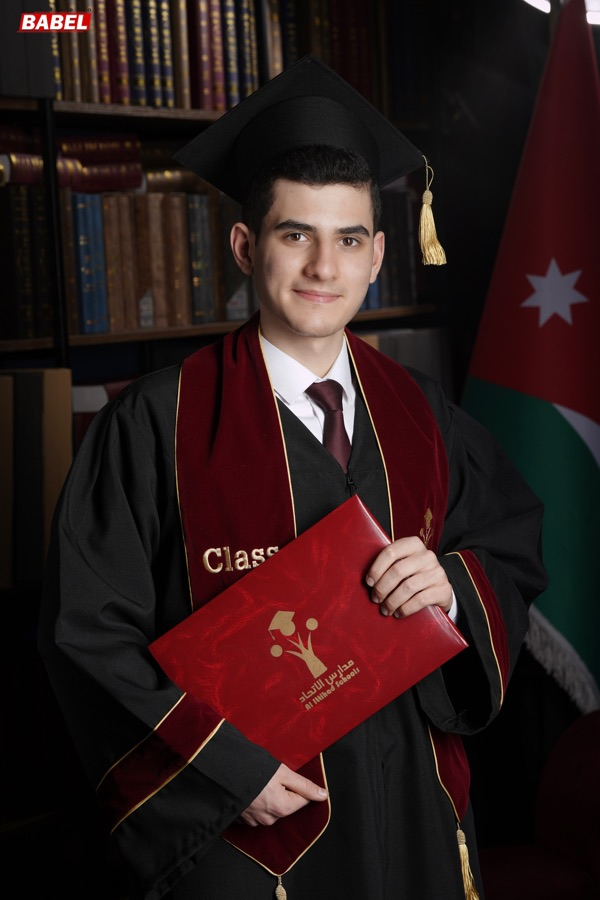
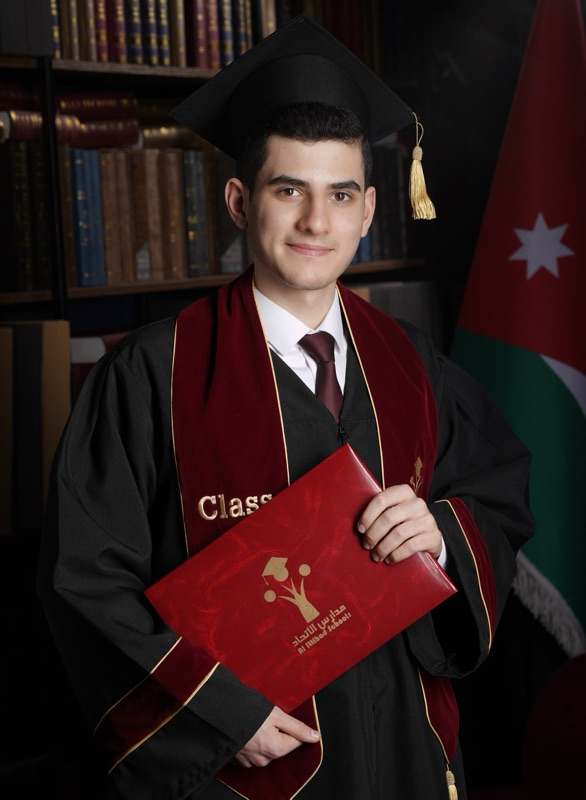
Redesign portrait as matted photo card, merge footer contact into studio block

diff --git a/style.css b/style.css
@@ -372,36 +372,51 @@ ol,ul{ margin:0; padding:0; list-style:none }
 }
 .verse + .verse{ margin-top:calc(var(--s-2) * -1) }
 
-/* ── the graduate's portrait: an arched, gold-framed window ── */
+/* ── the graduate's portrait: a matted photo card, sealed with a cap ── */
 .portrait{
   position:relative;
-  width:min(64vw, 250px);
-  margin-top:var(--s-2);
-  padding:7px;
-  background:linear-gradient(160deg,#F0E3BE,#C9A227 40%,#E0C878 68%,#A9861B);
-  border-radius:999px 999px 22px 22px;
-  box-shadow:0 24px 48px -22px rgba(90,72,20,.5);
-  animation:portraitFloat 6s var(--ease) infinite;
+  width:min(76vw, 290px);
+  margin-top:var(--s-3);
+  margin-bottom:var(--s-4);   /* room for the badge that overlaps below */
+  padding:10px;
+  background:linear-gradient(180deg,#FFFDF9,var(--ivory-2));
+  border:1px solid rgba(201,162,39,.4);
+  border-radius:var(--radius-l);
+  box-shadow:0 30px 55px -28px rgba(90,72,20,.5);
 }
 .portrait-frame{
+  position:relative;
   display:block; overflow:hidden;
-  aspect-ratio:3/4;
-  border:4px solid #FFFDF9;
-  border-radius:999px 999px 16px 16px;
+  aspect-ratio:4/5;
+  border-radius:calc(var(--radius-l) - 7px);
   background:var(--ivory-2);
 }
+/* hairline mat line drawn over the photo's edge */
+.portrait-frame::after{
+  content:""; position:absolute; inset:6px;
+  border:1px solid rgba(255,253,249,.55);
+  border-radius:calc(var(--radius-l) - 11px);
+  pointer-events:none;
+}
 .portrait img{
-  width:100%; height:100%; object-fit:cover; object-position:50% 18%;
+  width:100%; height:100%; object-fit:cover; object-position:50% 28%;
   display:block;
 }
 /* once revealed, the photo breathes with a slow, subtle zoom */
-.portrait.in img{ animation:kenburns 9s ease-in-out infinite alternate }
-.portrait-spark{ position:absolute; width:15px; opacity:.9 }
-.portrait-spark svg{ width:100%; height:auto; display:block }
-.ps-l{ top:16%; inset-inline-start:-24px }
-.ps-r{ bottom:10%; inset-inline-end:-22px; width:11px }
-@keyframes portraitFloat{ 0%,100%{ transform:translateY(0) } 50%{ transform:translateY(-7px) } }
-@keyframes kenburns{ from{ transform:scale(1) } to{ transform:scale(1.07) } }
+.portrait.in img{ animation:kenburns 10s ease-in-out infinite alternate }
+@keyframes kenburns{ from{ transform:scale(1) } to{ transform:scale(1.05) } }
+/* the gold cap seal, overlapping the mat's lower edge */
+.portrait-badge{
+  position:absolute; left:50%; bottom:-24px;
+  transform:translateX(-50%);
+  display:flex; align-items:center; justify-content:center;
+  width:52px; height:52px;
+  background:linear-gradient(140deg,var(--gold-lt),var(--gold) 55%,var(--gold-deep));
+  border:2px solid #FFFDF9;
+  border-radius:50%;
+  box-shadow:var(--shadow-gold);
+}
+.portrait-badge svg{ width:30px; height:auto; display:block }
 
 .name-block{
   display:flex; align-items:center; justify-content:center; gap:var(--s-4);
@@ -609,21 +624,21 @@ ol,ul{ margin:0; padding:0; list-style:none }
   font-size:var(--t-small); letter-spacing:.18em; color:var(--gold-deep);
   direction:ltr;
 }
-.foot-ask{ margin-top:var(--s-5); font-size:var(--t-small); color:var(--ink-2) }
-.foot-ask a{
+/* the studio's corner: one quiet block for the maker and their number */
+.foot-studio{
+  margin-top:var(--s-6);
+  padding-top:var(--s-5);
+  border-top:1px solid rgba(201,162,39,.25);
+  display:flex; flex-direction:column; gap:var(--s-2);
+  font-size:var(--t-small); color:var(--ink-2);
+}
+.foot-studio a{
   color:var(--gold-ink); text-decoration:none;
   border-bottom:1px solid rgba(201,162,39,.45); padding-bottom:.1em;
+  transition:border-color var(--dur-fast) var(--ease);
 }
-.foot-ask a:hover{ border-color:var(--gold) }
-.foot-credit{ margin-top:var(--s-4); font-size:var(--t-small) }
-.foot-credit a{
-  color:var(--ink-2); text-decoration:none;
-  border-bottom:1px solid rgba(201,162,39,.45);
-  padding-bottom:.15em;
-  transition:color var(--dur-fast) var(--ease), border-color var(--dur-fast) var(--ease);
-}
-.foot-credit a:hover{ color:var(--gold-ink); border-color:var(--gold) }
-.foot-credit b{ font-family:var(--font-latin); font-weight:600; color:var(--gold-deep) }
+.foot-studio a:hover{ border-color:var(--gold) }
+.foot-studio b{ font-family:var(--font-latin); font-weight:600; color:var(--gold-deep) }
 
 /* ═══ STICKY ═══════════════════════════════════════════════════ */
 
@@ -729,7 +744,7 @@ html[lang="en"] .name{ line-height:1.15 }
                 50%{ transform:translateX(-50%) translateY(-5px) } }
 
 /* ── sparkles twinkle ── */
-.ec-spark, .card-spark, .portrait-spark{ animation:twinkle 2.8s var(--ease) infinite }
+.ec-spark, .card-spark{ animation:twinkle 2.8s var(--ease) infinite }
 @keyframes twinkle{ 0%,100%{ opacity:.35; transform:scale(.85) }
                     50%{ opacity:1; transform:scale(1.1) } }
 
@@ -749,8 +764,8 @@ html[lang="en"] .name{ line-height:1.15 }
 @keyframes cue{ 0%,100%{ transform:scaleY(.55); opacity:.6 } 50%{ transform:scaleY(1); opacity:1 } }
 
 @media (prefers-reduced-motion:reduce){
-  .name,.ec-name,.grade-num,.grade-num.done,.portrait,.portrait.in img,
-  .seal-sm .seal-cap,.ec-spark,.card-spark,.portrait-spark,
+  .name,.ec-name,.grade-num,.grade-num.done,.portrait.in img,
+  .seal-sm .seal-cap,.ec-spark,.card-spark,
   .btn-solid::after,.cue-line{ animation:none }
   .site.on .orn use{ animation:none; stroke-dashoffset:0 }
   .section-title::after{ transform:scaleX(1); transition:none }

diff --git a/index.html b/index.html
@@ -159,10 +159,17 @@
 
       <figure class="portrait reveal" aria-label="محمد عبدالله الرمحي">
         <span class="portrait-frame">
-          <img src="photo.jpg" alt="محمد عبدالله الرمحي بثوب التخرّج" width="600" height="900">
+          <img src="photo.jpg" alt="محمد عبدالله الرمحي بثوب التخرّج" width="586" height="800">
         </span>
-        <span class="portrait-spark ps-l" aria-hidden="true"><svg viewBox="0 0 20 20"><use href="#spark" fill="url(#goldGrad)"/></svg></span>
-        <span class="portrait-spark ps-r" aria-hidden="true"><svg viewBox="0 0 20 20"><use href="#spark" fill="url(#goldGrad)"/></svg></span>
+        <span class="portrait-badge" aria-hidden="true">
+          <!-- ivory cap: the gold-on-gold <use> version disappears on the badge -->
+          <svg viewBox="0 0 64 52">
+            <path d="M32 6 4 19l28 13 28-13L32 6Z" fill="#FBF6E8"/>
+            <path d="M14 26v13c0 5 8 9 18 9s18-4 18-9V26l-18 8-18-8Z" fill="#FBF6E8" opacity=".9"/>
+            <path d="M57 21v15" stroke="#FBF6E8" stroke-width="2.4" stroke-linecap="round" fill="none"/>
+            <path d="M57 36c-2 4-2 8 0 12 2-4 2-8 0-12Z" fill="#FBF6E8"/>
+          </svg>
+        </span>
       </figure>
 
       <div class="name-block reveal">
@@ -274,10 +281,10 @@
     </span>
     <p class="foot-line">بحضوركم تكتمل فرحتنا</p>
     <p class="foot-date">12 · 08 · 2026</p>
-    <p class="foot-ask">للاستفسار: <a href="tel:+962796217414"><bdi dir="ltr">+962 79 621 7414</bdi></a> · <a href="https://wa.me/962796217414" target="_blank" rel="noopener">واتساب</a></p>
-    <p class="foot-credit">
-      <a href="https://invite-sites.netlify.app" target="_blank" rel="noopener">صُمّمت الدعوة بواسطة <b>Invite Sites</b> — تعرّفوا علينا</a>
-    </p>
+    <div class="foot-studio">
+      <p class="fs-line">دعوة رقمية بتصميم <a href="https://invite-sites.netlify.app" target="_blank" rel="noopener"><b>Invite Sites</b></a></p>
+      <p class="fs-cta">لطلب دعوتكم الخاصة: <a href="tel:+962796217414"><bdi dir="ltr">+962 79 621 7414</bdi></a> · <a href="https://wa.me/962796217414" target="_blank" rel="noopener">واتساب</a></p>
+    </div>
   </footer>
 </main>
 

diff --git a/i18n.js b/i18n.js
@@ -67,9 +67,9 @@
     { s: '.v-actions .btn-solid', ar: PIN_ICO + ' افتح الموقع على الخريطة', en: PIN_ICO + ' Open in Google Maps' },
 
     /* footer + sticky */
-    { s: '.foot-ask', ar: 'للاستفسار: <a href="tel:+962796217414"><bdi dir="ltr">+962 79 621 7414</bdi></a> · <a href="https://wa.me/962796217414" target="_blank" rel="noopener">واتساب</a>', en: 'Questions? <a href="tel:+962796217414"><bdi dir="ltr">+962 79 621 7414</bdi></a> · <a href="https://wa.me/962796217414" target="_blank" rel="noopener">WhatsApp</a>' },
+    { s: '.fs-line', ar: 'دعوة رقمية بتصميم <a href="https://invite-sites.netlify.app" target="_blank" rel="noopener"><b>Invite Sites</b></a>', en: 'A digital invitation by <a href="https://invite-sites.netlify.app" target="_blank" rel="noopener"><b>Invite Sites</b></a>' },
+    { s: '.fs-cta', ar: 'لطلب دعوتكم الخاصة: <a href="tel:+962796217414"><bdi dir="ltr">+962 79 621 7414</bdi></a> · <a href="https://wa.me/962796217414" target="_blank" rel="noopener">واتساب</a>', en: 'Want one of your own? <a href="tel:+962796217414"><bdi dir="ltr">+962 79 621 7414</bdi></a> · <a href="https://wa.me/962796217414" target="_blank" rel="noopener">WhatsApp</a>' },
     { s: '.foot-line', ar: 'بحضوركم تكتمل فرحتنا', en: 'Your presence completes our joy' },
-    { s: '.foot-credit a', ar: 'صُمّمت الدعوة بواسطة <b>Invite Sites</b> — تعرّفوا علينا', en: 'Invitation crafted by <b>Invite Sites</b> — learn more about us' },
     { s: '#stickyCta .btn', ar: 'الموقع على الخريطة', en: 'Map & directions' },
   ];
 
